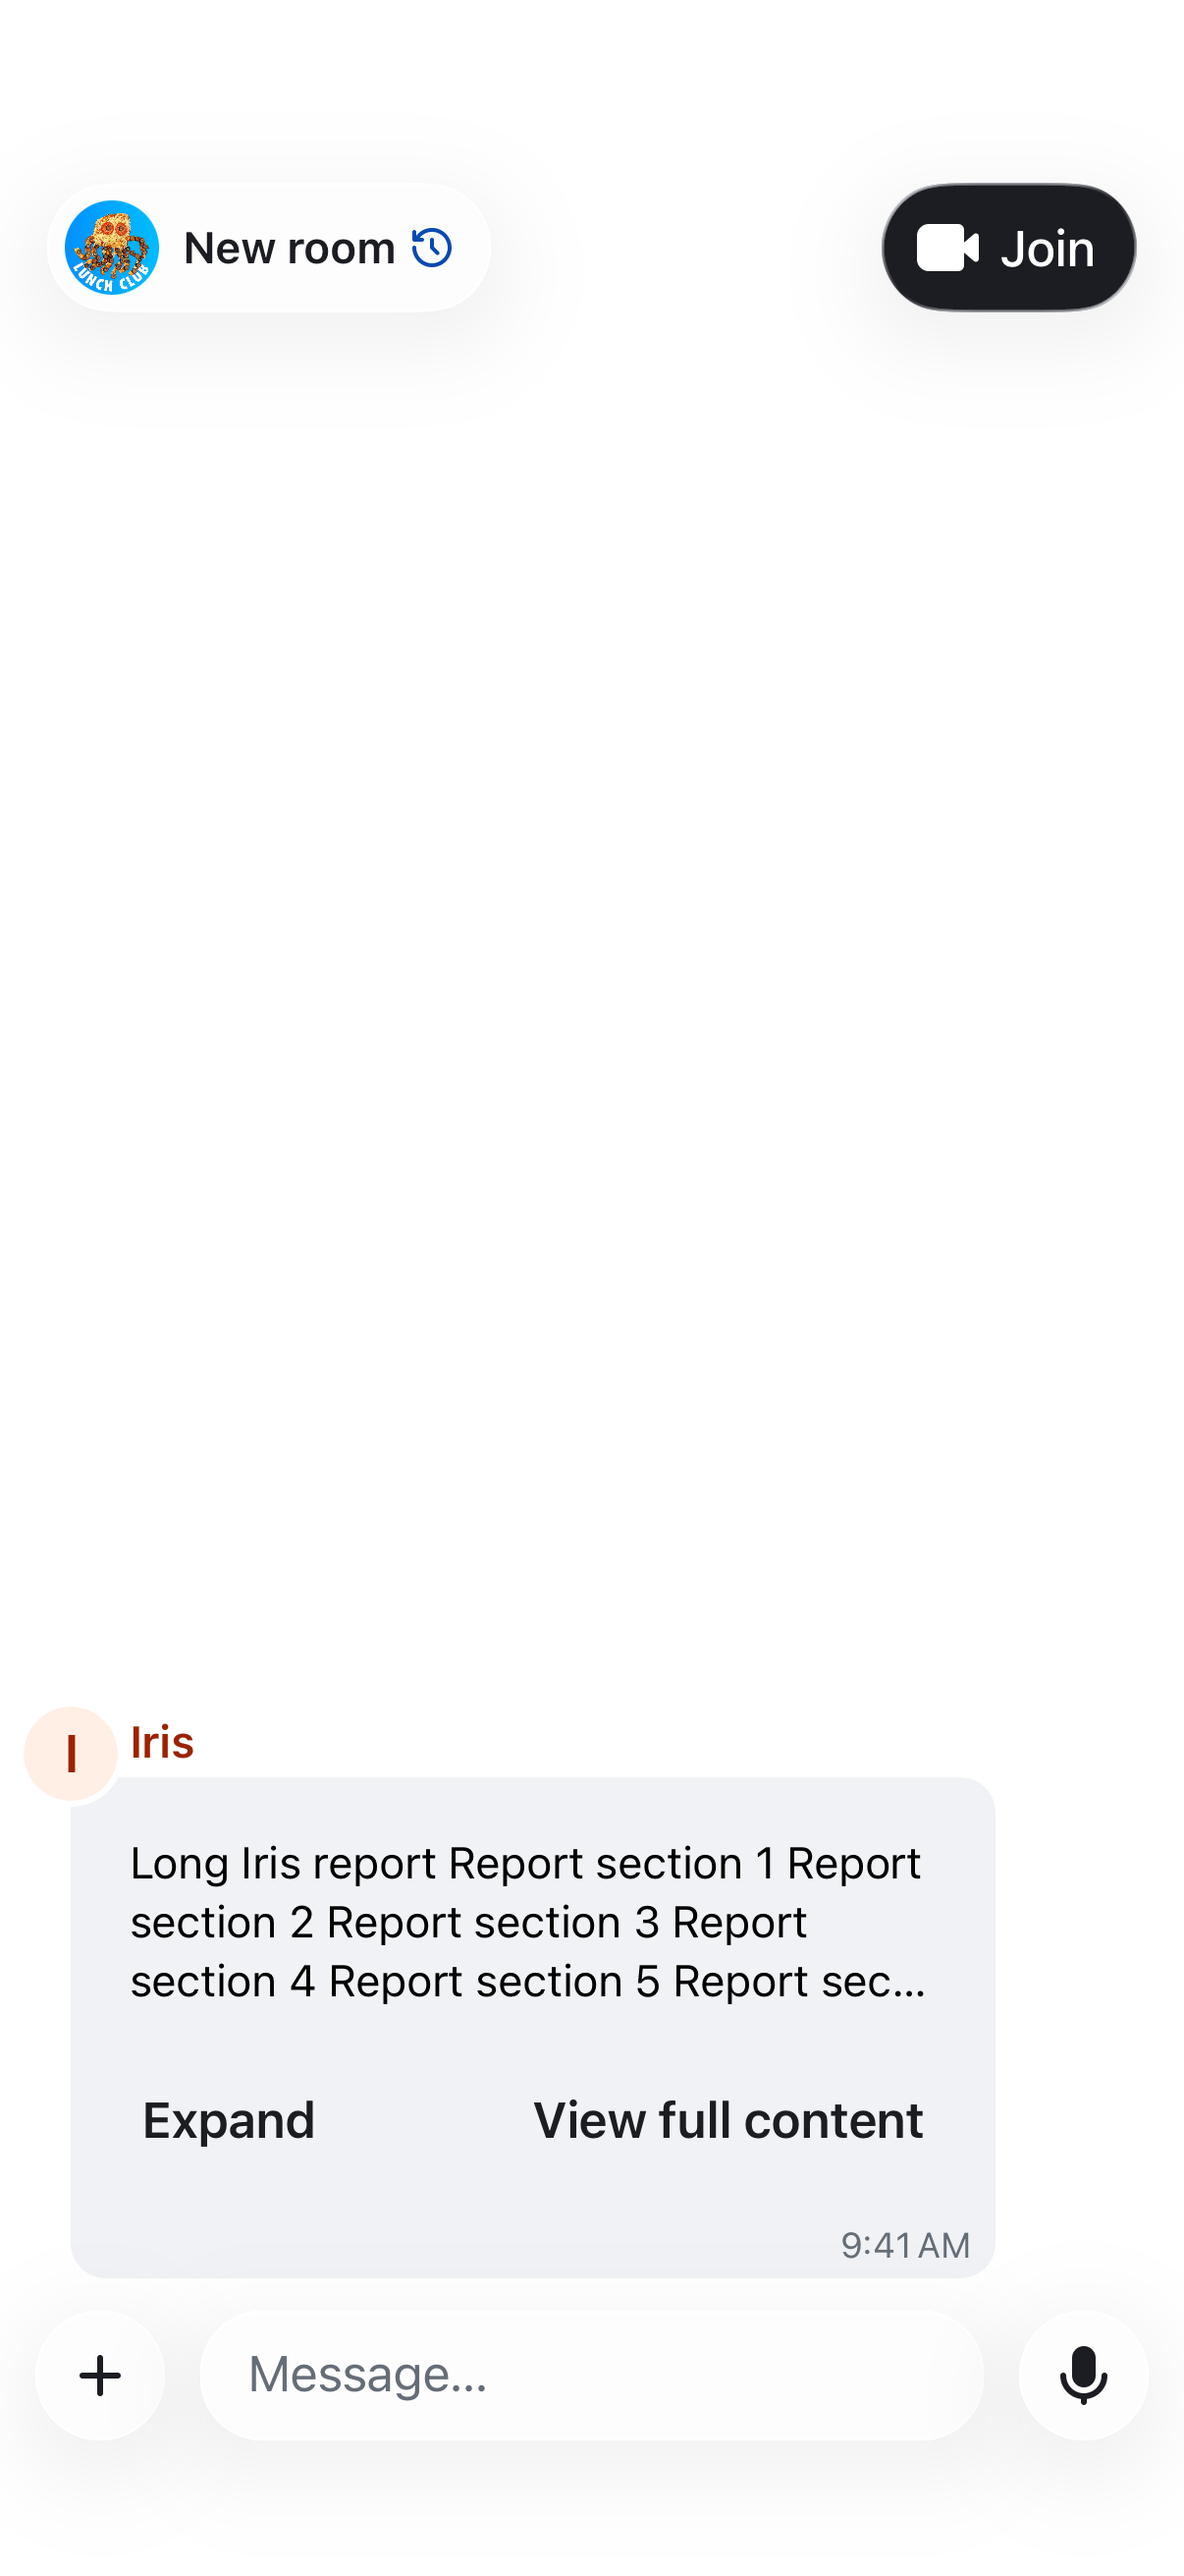
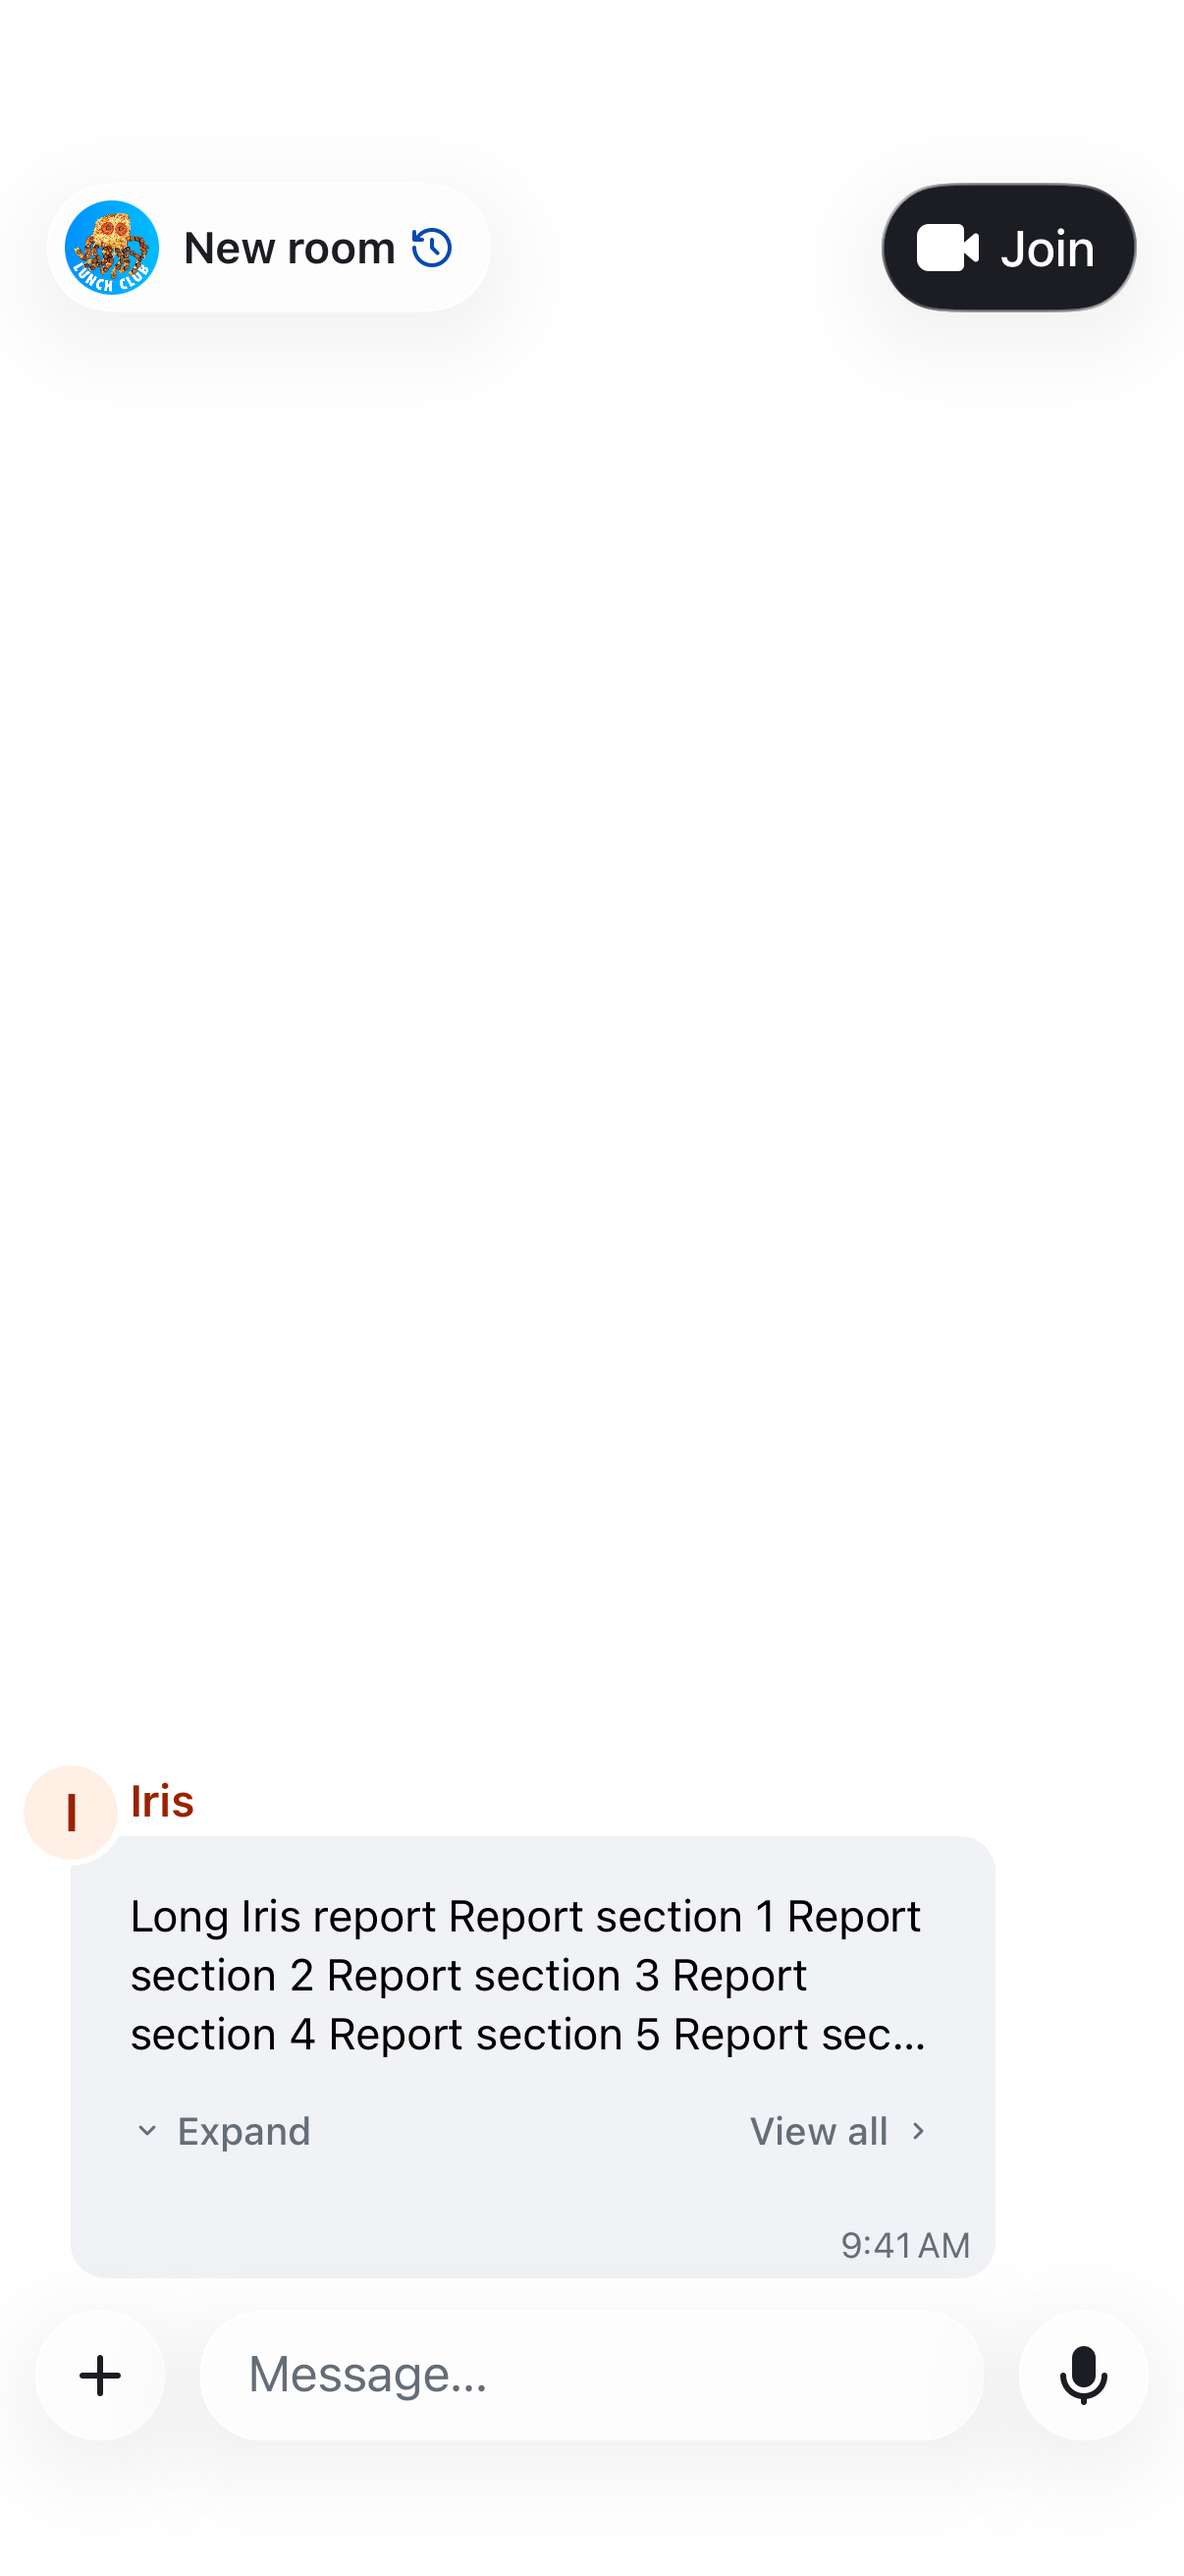
Refine HTML card actions into compact inline controls
Use secondary footnote labels and small chevrons while preserving 44-point touch targets. Reduce footer and summary spacing, shorten View all, and refresh verified simulator screenshots.

Changed region(s): [[0.0, 0.6487, 0.7977, 0.8341]]

diff --git a/ElementX/Sources/Other/IrisHTML/IrisHTMLCardView.swift b/ElementX/Sources/Other/IrisHTML/IrisHTMLCardView.swift
@@ -29,7 +29,9 @@ struct IrisHTMLCardView: View {
                     .font(.compound.bodyMD)
                     .lineLimit(3)
                     .frame(maxWidth: .infinity, alignment: .leading)
-                    .padding(12)
+                    .padding(.horizontal, 12)
+                    .padding(.top, 10)
+                    .padding(.bottom, 2)
                     .accessibilityIdentifier("irisHTMLSummary")
             } else if failed {
                 Text(UntranslatedL10n.irisHtmlRenderFailed)
@@ -40,19 +42,40 @@ struct IrisHTMLCardView: View {
                     .clipped()
                     .accessibilityIdentifier("irisHTMLInlinePreview")
             }
-            HStack(spacing: 8) {
-                Button(isCollapsed.wrappedValue ? UntranslatedL10n.irisHtmlExpand : UntranslatedL10n.irisHtmlCollapse) {
+            HStack(spacing: 12) {
+                Button {
                     isCollapsed.wrappedValue.toggle()
+                } label: {
+                    HStack(spacing: 4) {
+                        CompoundIcon(isCollapsed.wrappedValue ? \.chevronDown : \.chevronUp,
+                                     size: .custom(12), relativeTo: .footnote)
+                            .accessibilityHidden(true)
+                        Text(isCollapsed.wrappedValue ? UntranslatedL10n.irisHtmlExpand : UntranslatedL10n.irisHtmlCollapse)
+                    }
+                    .padding(.horizontal, 4)
+                    .frame(minHeight: IrisHTMLPreviewLayout.footerHeight)
+                    .contentShape(Rectangle())
                 }
                 .accessibilityIdentifier("irisHTMLToggleCollapse")
                 Spacer(minLength: 0)
                 if isCollapsed.wrappedValue || layout.overflows {
-                    Button(UntranslatedL10n.irisHtmlViewFullContent) { showingFullContent = true }
-                        .accessibilityIdentifier("irisHTMLViewFullContent")
+                    Button { showingFullContent = true } label: {
+                        HStack(spacing: 4) {
+                            Text(UntranslatedL10n.irisHtmlViewFullContent)
+                            CompoundIcon(\.chevronRight, size: .custom(12), relativeTo: .footnote)
+                                .accessibilityHidden(true)
+                        }
+                        .padding(.horizontal, 4)
+                        .frame(minHeight: IrisHTMLPreviewLayout.footerHeight)
+                        .contentShape(Rectangle())
+                    }
+                    .accessibilityIdentifier("irisHTMLViewFullContent")
                 }
             }
-            .buttonStyle(.compound(.tertiary, size: .small))
-            .frame(minHeight: IrisHTMLPreviewLayout.footerHeight)
+            .font(.footnote.weight(.medium))
+            .foregroundStyle(Color.compound.textSecondary)
+            .buttonStyle(.plain)
+            .padding(.horizontal, 8)
         }
         .frame(maxWidth: .infinity, alignment: .leading)
         .fullScreenCover(isPresented: $showingFullContent) {
@@ -66,7 +89,7 @@ struct IrisHTMLCardView: View {
 }
 
 struct IrisHTMLPreviewLayout {
-    static let footerHeight: CGFloat = 52
+    static let footerHeight: CGFloat = 44
     static let messageChromeHeight: CGFloat = 60
     let contentSize: CGSize
     let viewport: CGSize

diff --git a/docs/iris/HTML-CARDS.md b/docs/iris/HTML-CARDS.md
@@ -18,7 +18,7 @@ fetched from a third party or from Iris.
 The source and sanitised fragment are limited to 16,000 UTF-8 bytes; encoded
 extension JSON is limited to 32,000 bytes to leave room for the ordinary message
 body and Matrix encryption overhead. Inline cards grow with their content up to the current visible viewport, with
-space reserved for the sender, timestamp and a **View full content** button. They do not
+space reserved for the sender, timestamp and a **View all** button. They do not
 scroll, select text, or intercept touches, including inside CSS scroll containers.
 Vertical or horizontal overflow shows the button below the preview. It opens a
 full-screen internal reader where the complete document can scroll; Done returns
@@ -88,7 +88,7 @@ including orientation changes. SwiftFormat and SwiftLint pass for the changes.
 Each card starts expanded and has a Collapse button. Collapsing replaces WebKit
 with a native summary of at most three lines, retaining the preview's 300-point
 width (or the available width on narrow layouts). Expand restores the preview;
-View full content opens the private reader directly from the summary. Returning
+View all opens the private reader directly from the summary. Returning
 from the reader preserves the collapsed state.
 
 Collapsed event IDs are held in the current timeline view model, so recycling a
@@ -100,3 +100,7 @@ summary expansion, opening the reader while collapsed, and returning to the
 collapsed message. SwiftFormat and SwiftLint pass for the changed files.
 
 ![Collapsed message summary with expand and full-content actions](images/html-card-collapsed.png)
+
+Card actions use secondary-colour footnote labels and small directional chevrons,
+with no filled button chrome. Each action retains a 44-point minimum hit height.
+The refined controls pass all three card UI flows, including rotation.
